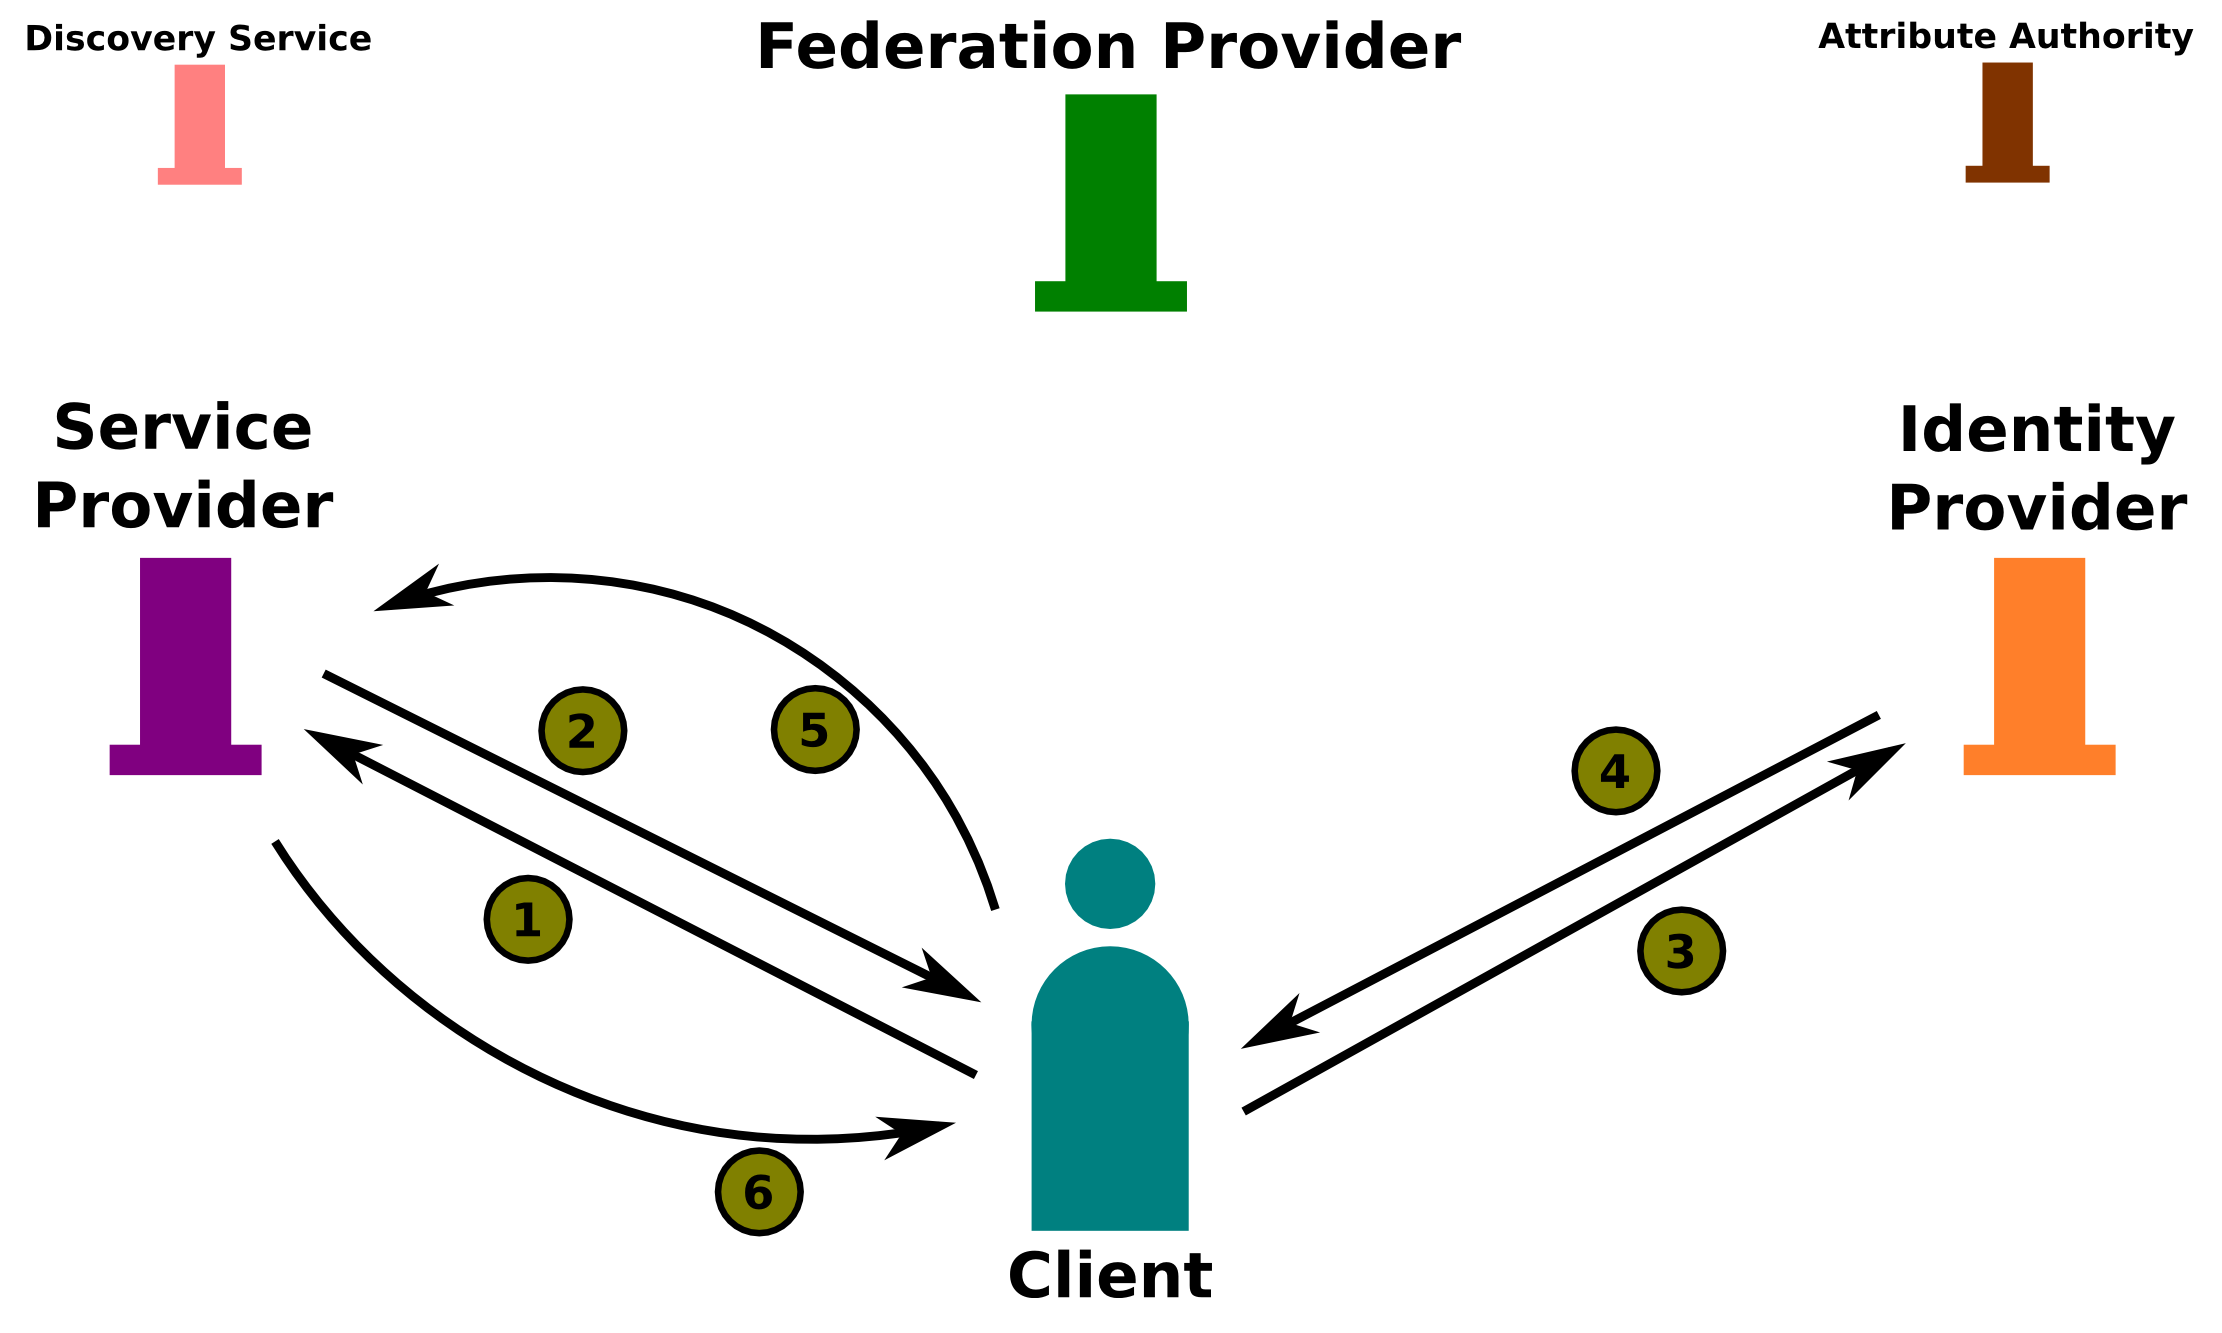
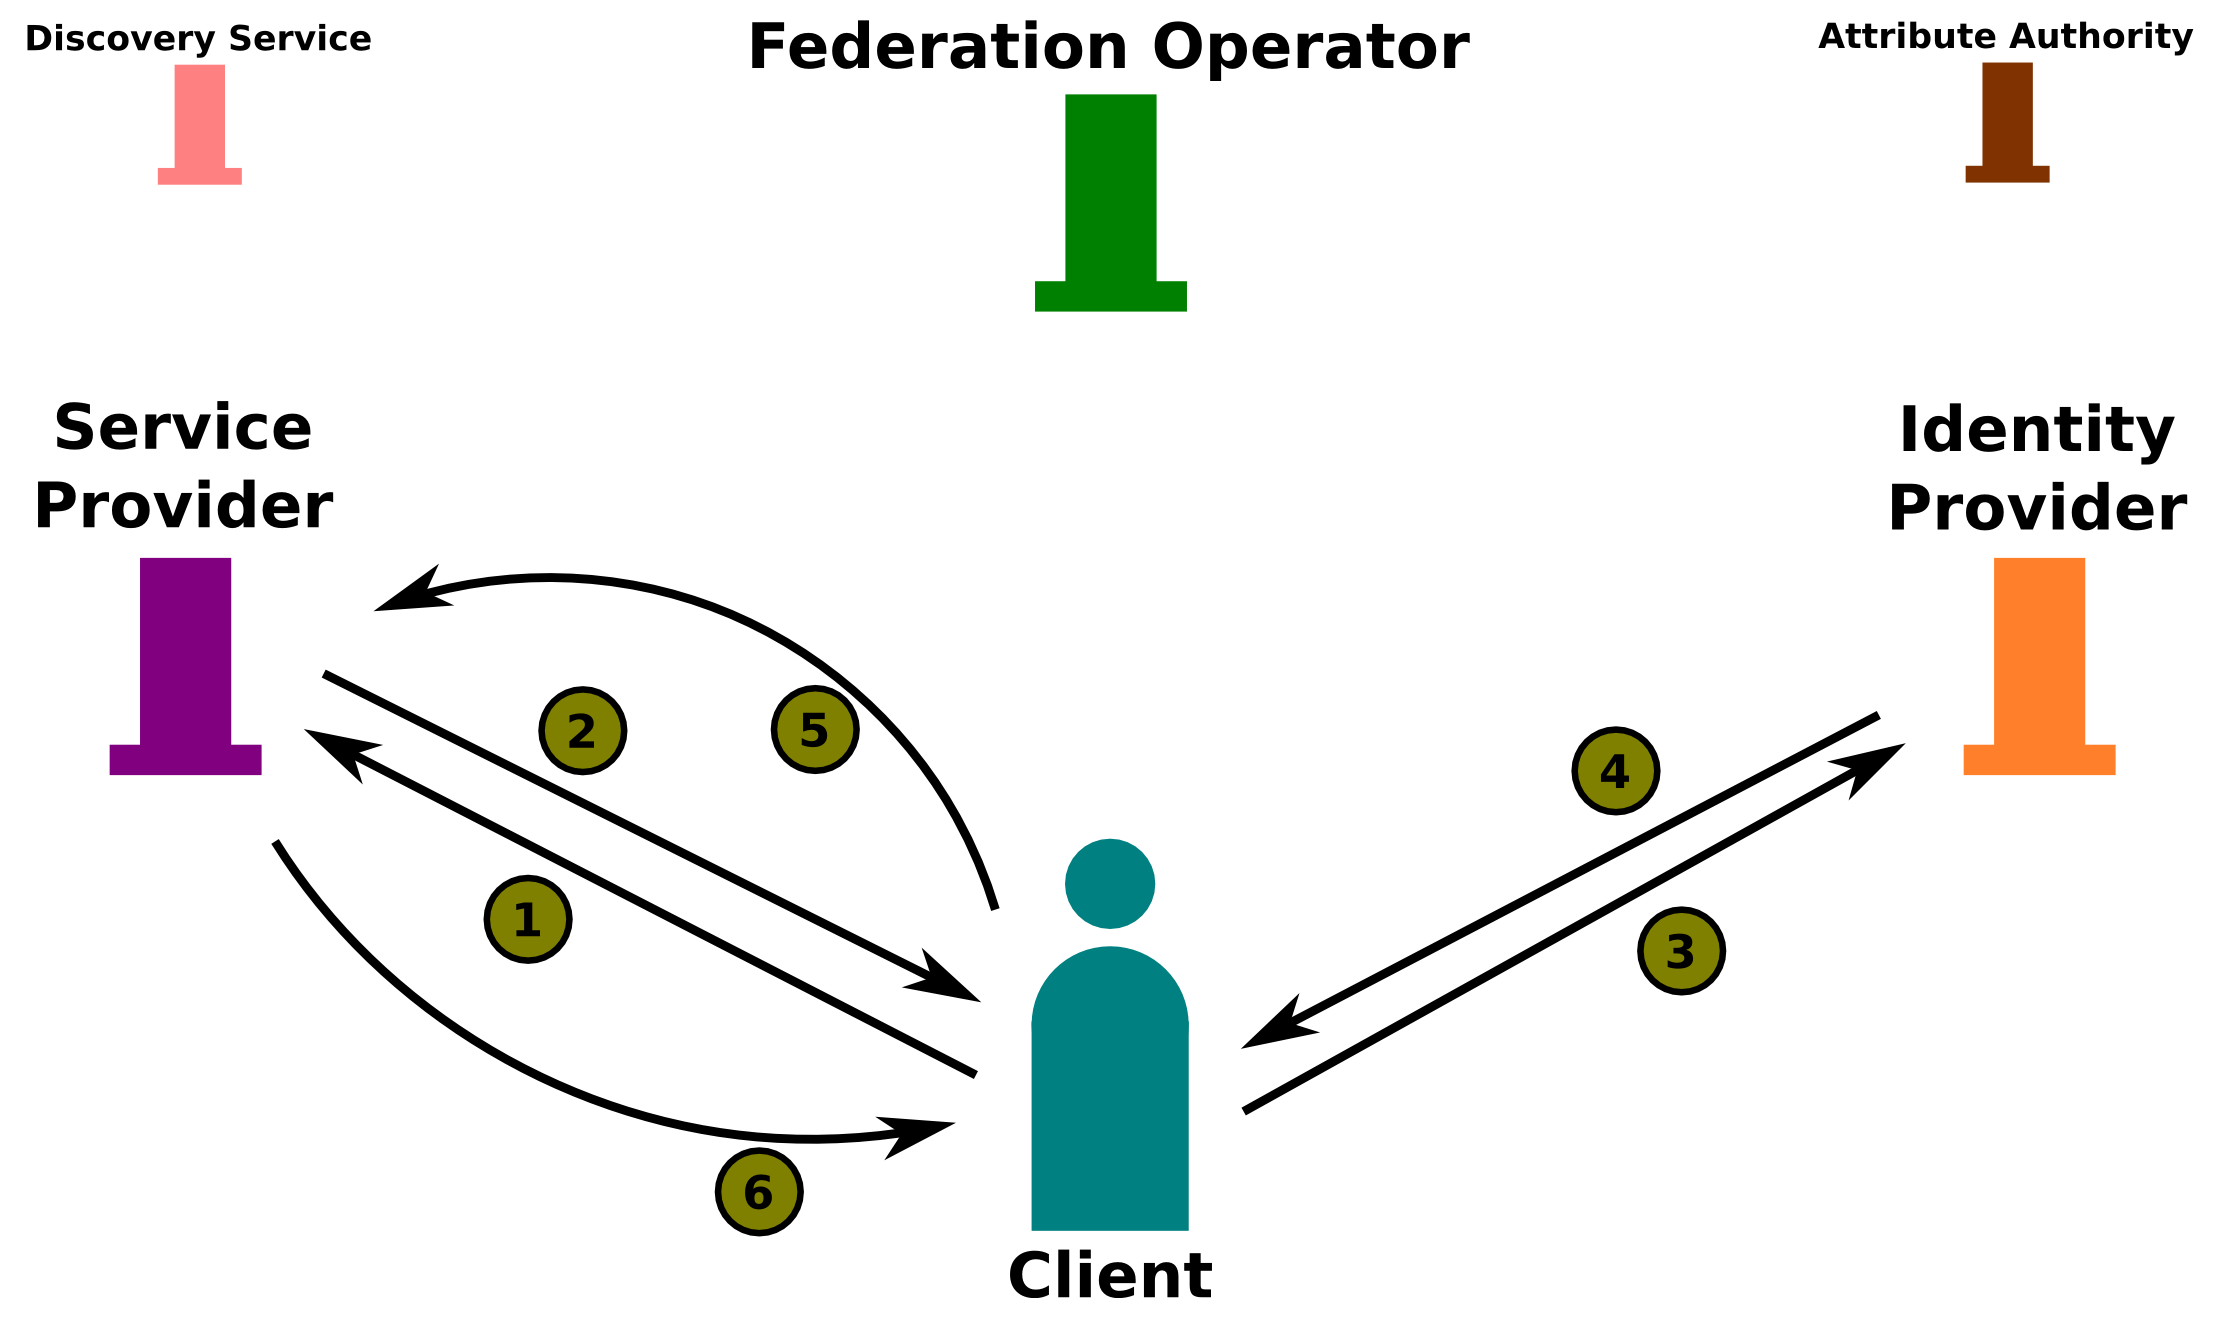
Added some images and minor modifications to chapter 4

Changed region(s): [[0.3416, 0.0, 0.6521, 0.0615]]

diff --git a/thesis/Chapter4/chapter4.tex b/thesis/Chapter4/chapter4.tex
@@ -53,7 +53,7 @@ Is it the correct federation provider the trusting entities connect to or is it 
 
 As of now the trust must be made in some out-of-band way e.g. a simple download of the federation provider's certificate and then confirm it's the correct one via telephone, email communcation between administrators or meet in person.
 This is not very practical when the federation grows bigger with tenths or hundreds of service- and identity providers or is it the only way?
-\subsection{The publishing problem}
+\subsection{How to publish certificates}
 \subsubsection{SAML2 certificate as CERT resource record}
 \label{subsec:saml2-certificate-as-tlsa}
 The first solution that comes into mind is that it might be possible to publish the federation provider's certificate in the Domain Name System and more specifically as a CERT RR\cite{rfc:4398}.
@@ -66,8 +66,22 @@ To keep building on the same solution each entity would have to publish respecti
 They would also need to sign their own metadata which is not the case in current standards. 
 Now the initial upload of metadata from an entity to the federation provider could be intitated, perhaps through a web interface, with or without some "Pretty Good Privacy" (PGP) solution e.g. OpenPGP\cite{rfc:2440}.
 % TODO: Add use cases from registry->registrar in DNS and how it is used their.
-The federation provider than fetches the metadata aswell as the corresponding CERT RR from the entity and if it's the correct signature on it the federation provider can publish it with the metadata from all other entities.
+The federation provider then fetches the metadata aswell as the corresponding CERT RR from the entity and if it's the correct signature on it the federation provider can publish it with the metadata from all other entities.
 Within one cache interval all entities will now fetch the complete updated metadata from the federation provider.
+
+\begin{figure}[ht]
+\begin{center}
+\includegraphics[scale=1]{Figures/saml2certsascertrr.png}
+\end{center}
+\caption{A complete cycle of transmitting metadata securely from the Service provider to the Identity provider via a federation operator.
+Step 1, the service provider initiate an update of metadata.
+Step 2, the federation operator requests the metadata from some well known location.
+Step 3, the identity provider updates the local metadata cache when the cache timer has expired by requesting new metadata from the federation operator.
+Step 4, the federation operator respond with the new metadata.
+After each response that includes a certificate in some form another request is made to the domain name system for CERT RRs to be able to validate the original certificate. 
+\label{ch4:saml2certsascertrr}}
+\end{figure}
+
 
 % TODO: What is a cache interval?
 % TODO: What is a domain zone?
@@ -85,7 +99,7 @@ Instead of publishing SAML2 certificates in the Domain Name System it might be p
 
 This would mean that when a new entity, let's say a service provider, joins a federation the service provider must send its metadata to the federation provider.
 As an example the administrator for the service provider might visit a webpage over HTTPS (with validity check for TLSA RR) to initiate the transfer of metadata.
-The federation provider than opens a new connection over HTTPS (with validity check for TLSA RR) for the metadata from the service provider.
+The federation provider then opens a new connection over HTTPS (with validity check for TLSA RR) for the metadata from the service provider.
 This request from the frederation provider back to the requesting service provider is to make sure that the metadata that is fetched is from the right service provider. 
 When the metadata is recieved the federation provider can publish it with the metadata for all other entities.
 
@@ -108,7 +122,15 @@ The third validation would be when the SAML2 certificate is compared against the
 
 As noted the first and the third validation are both trusting the DNSSEC infrastructure, and therefore the combination of both using TLS with TLSA and SAML2 certificate with CERT RRs would at first glance not add any extra benefits.
 Though under some circumstances someone might be able to hack into a webserver for some entity and change the SAML2 certificate, the third validation check against the CERT RR would in this case fail.
-So in the end the question boils down to if the communication is secure to the correct host is this enough to trust everything that the host sends?
+So in the end the question boils down to if the communication is secure to the correct host, is this enough to trust everything that the host sends?
+
+\begin{figure}[ht]
+\begin{center}
+\includegraphics[scale=1]{Figures/onlyUseTLS.png}
+\end{center}
+\caption{If the communication between two hosts is deemed secure with TLS and TLSA, how much trust can be put in the information that is exchanged between them?
+\label{ch4:onlyUseTLS}}
+\end{figure}
 
 \subsection{The matching dilemma}
 \label{subsec:matching-dilemma}
